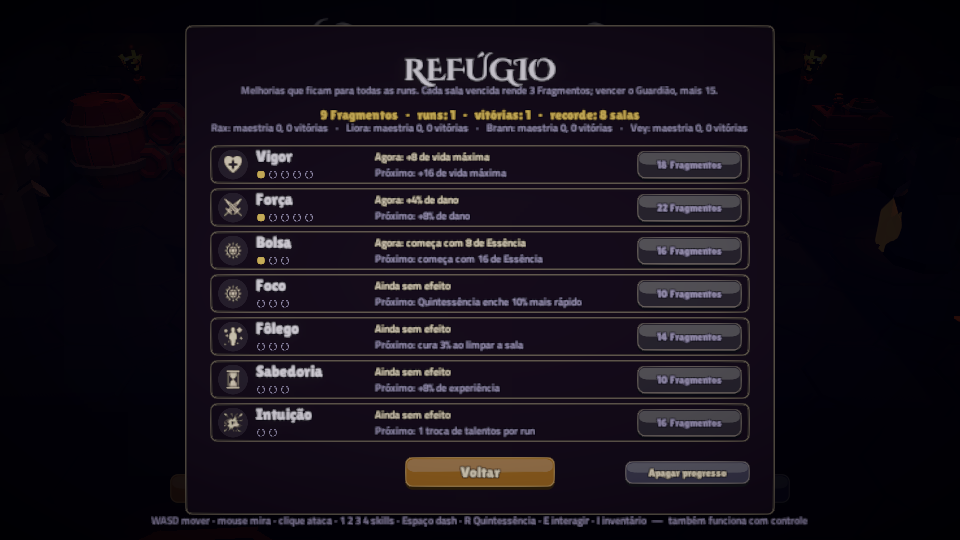
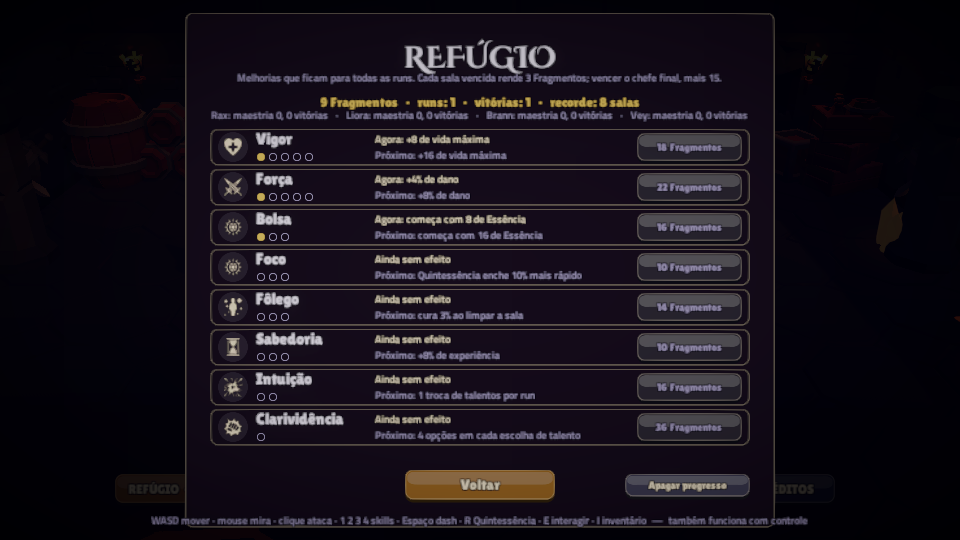
Refúgio: Clarividência (4 opções em cada escolha de talento, tecla 4); nome do talento não cobre o painel seguinte

Changed region(s): [[0.1875, 0.0296, 0.8125, 0.9778], [0.125, 0.8889, 0.1875, 0.9185], [0.8125, 0.8889, 0.8438, 0.9185]]

diff --git a/docs/progresso.html b/docs/progresso.html
@@ -67,6 +67,10 @@
           <li>Um por sala de luta (dois do meio da run em diante), na cor do elemento do trecho. Um golpe estoura o cristal: fere pouco, aplica o efeito do trecho (queima, encharca ou enraíza) e <b>marca o bando em volta</b>; uma skill de outro elemento logo depois detona reações em todos</li>
           <li>Barril e explosões também estouram o cristal: o cenário entra no combo. Respiradouros e espinhos não ferem cristal, barril nem boneco (só criaturas)</li>
         </ul>
+        <h3 style="margin-top:14px">Refúgio: Clarividência</h3>
+        <ul>
+          <li>Oitava melhoria permanente (36 Fragmentos, um nível): <b>cada escolha de talento mostra 4 opções</b> em vez de 3; a tecla 4 escolhe a quarta. Progressão que mexe direto no build</li>
+        </ul>
         <h3 style="margin-top:14px">Build: Sintonia</h3>
         <ul>
           <li>Concentrar talentos de um elemento fortalece aquele elemento: <b>3 pontos</b> = skill +20% de dano; <b>5 pontos</b> = também recarrega 15% mais rápido. Talentos de reação contam para os dois elementos do par</li>

diff --git a/Assets/Game/Run/Meta.cs b/Assets/Game/Run/Meta.cs
@@ -4,18 +4,18 @@ using Quintessence.Core;
 namespace Quintessence.Run
 {
     /// Melhorias permanentes do Refugio, compradas com Fragmentos entre uma run e outra.
-    public enum MetaUpgrade { Vigor, Power, Purse, Focus, Recovery, Wisdom, Insight }
+    public enum MetaUpgrade { Vigor, Power, Purse, Focus, Recovery, Wisdom, Insight, Clarity }
 
     public static class MetaInfo
     {
-        public const int Count = 7;
-        static readonly string[] names = { "Vigor", "Força", "Bolsa", "Foco", "Fôlego", "Sabedoria", "Intuição" };
-        static readonly string[] icons = { "boon_health", "boon_damage", "essence", "boon_quint", "boon_rest", "boon_skill", "boon_reaction" };
-        static readonly int[] maxLevel = { 5, 5, 3, 3, 3, 3, 2 };
-        static readonly int[] baseCost = { 10, 12, 8, 10, 14, 10, 16 };
-        static readonly int[] costStep = { 8, 10, 8, 10, 12, 10, 14 };
-        /// Quanto cada nivel da: vida, fracao de dano, essencia, fracao de ganho, fracao de cura.
-        static readonly float[] perLevel = { 8f, 0.04f, 8f, 0.1f, 0.03f, 0.08f, 1f };
+        public const int Count = 8;
+        static readonly string[] names = { "Vigor", "Força", "Bolsa", "Foco", "Fôlego", "Sabedoria", "Intuição", "Clarividência" };
+        static readonly string[] icons = { "boon_health", "boon_damage", "essence", "boon_quint", "boon_rest", "boon_skill", "boon_reaction", "boon_element" };
+        static readonly int[] maxLevel = { 5, 5, 3, 3, 3, 3, 2, 1 };
+        static readonly int[] baseCost = { 10, 12, 8, 10, 14, 10, 16, 36 };
+        static readonly int[] costStep = { 8, 10, 8, 10, 12, 10, 14, 0 };
+        /// Quanto cada nivel da: vida, fracao de dano, essencia, fracao de ganho, fracao de cura, opcoes de talento.
+        static readonly float[] perLevel = { 8f, 0.04f, 8f, 0.1f, 0.03f, 0.08f, 1f, 1f };
 
         public static string Name(MetaUpgrade u) => names[(int)u];
         public static string Icon(MetaUpgrade u) => icons[(int)u];
@@ -35,6 +35,7 @@ namespace Quintessence.Run
                 MetaUpgrade.Focus => $"Quintessência enche {v * 100:0}% mais rápido",
                 MetaUpgrade.Recovery => $"cura {v * 100:0}% ao limpar a sala",
                 MetaUpgrade.Wisdom => $"+{v * 100:0}% de experiência",
+                MetaUpgrade.Clarity => level > 0 ? "4 opções em cada escolha de talento" : "3 opções de talento",
                 _ => v <= 1f ? "1 troca de talentos por run" : $"{v:0} trocas de talentos por run",
             };
         }
@@ -206,6 +207,8 @@ namespace Quintessence.Run
 
         /// Quantas vezes por run da para trocar as tres opcoes de talento.
         public int Rerolls => (int)(MetaInfo.PerLevel(MetaUpgrade.Insight) * Level(MetaUpgrade.Insight));
+        /// Quantas opcoes cada escolha de talento mostra (Clarividencia: 4).
+        public int TalentChoices => 3 + Level(MetaUpgrade.Clarity);
 
         public int StartEssence => (int)(MetaInfo.PerLevel(MetaUpgrade.Purse) * Level(MetaUpgrade.Purse));
 

diff --git a/Assets/Game/Game/RunDirector.cs b/Assets/Game/Game/RunDirector.cs
@@ -1192,7 +1192,7 @@ namespace Quintessence.Game
         void OpenLevelUp()
         {
             talentRng = TalentRng();
-            talentOffer = TalentCatalog.Offer(Run.Talents, player.Loadout.Awakened, talentRng);
+            talentOffer = TalentCatalog.Offer(Run.Talents, player.Loadout.Awakened, talentRng, MetaStore.Current.TalentChoices);
             if (talentOffer.Count == 0) { while (Run.Progress.ConsumePick()) { } masteryPicks = 0; return; }
             if (GameFlow.AutoPickTalents) { PickTalent(0); return; }
             levelUpOpen = true;
@@ -1207,7 +1207,7 @@ namespace Quintessence.Game
         {
             if (!levelUpOpen || Run.Rerolls <= 0) return;
             Run.Rerolls--;
-            var fresh = TalentCatalog.Offer(Run.Talents, player.Loadout.Awakened, TalentRng());
+            var fresh = TalentCatalog.Offer(Run.Talents, player.Loadout.Awakened, TalentRng(), MetaStore.Current.TalentChoices);
             if (fresh.Count == 0) { Run.Rerolls++; return; }
             talentOffer = fresh;
             Sfx.Play("ui_click");
@@ -1231,6 +1231,7 @@ namespace Quintessence.Game
             if (kb.digit1Key.wasPressedThisFrame || kb.numpad1Key.wasPressedThisFrame) PickTalent(0);
             else if (kb.digit2Key.wasPressedThisFrame || kb.numpad2Key.wasPressedThisFrame) PickTalent(1);
             else if (kb.digit3Key.wasPressedThisFrame || kb.numpad3Key.wasPressedThisFrame) PickTalent(2);
+            else if (kb.digit4Key.wasPressedThisFrame || kb.numpad4Key.wasPressedThisFrame) PickTalent(3);
             else if (kb.tKey.wasPressedThisFrame) RerollTalents();
         }
 
@@ -1258,6 +1259,8 @@ namespace Quintessence.Game
                 // a tecla que escolheu o talento nao pode virar skill no quadro seguinte
                 // a tecla que escolheu nao vira skill: o heroi ignora comandos no quadro em que a pausa sai (GameClock.ResumedFrame)
             }
+            // com outra escolha na fila o painel reabre ja: o nome flutuando passaria por cima do titulo dele
+            if (Run.Progress.PendingPicks > 0) return;
             var c = t.Element == ElementType.None ? new Color(0.9f, 0.76f, 0.42f) : ElementColors.Of(t.Element);
             Feel.DamageNumber.Spawn(player.transform.position + Vector3.up * 3.6f, t.Name.ToUpperInvariant() + "!", c, 1.1f, 1.5f);
         }

diff --git a/Assets/Game/UI/TitleMenu.cs b/Assets/Game/UI/TitleMenu.cs
@@ -285,7 +285,7 @@ namespace Quintessence.UI
             if (meta == null) return;
             var center = new Vector2(0.5f, 0.5f);
             UiKit.Image(UiKit.Stretch("Shade", refuge), null, new Color(0.02f, 0.02f, 0.04f, 0.95f), true);
-            var box = UiKit.Box("Box", refuge, center, Vector2.zero, new Vector2(1180, 980), 1f);
+            var box = UiKit.Box("Box", refuge, center, Vector2.zero, new Vector2(1180, 1030), 1f);
             var title = UiKit.Text(UiKit.Rect("Title", box, new Vector2(0.5f, 1), new Vector2(0, -58), new Vector2(900, 70)), "REFÚGIO", 60, UiKit.Paper);
             title.font = GameFonts.Title;
             UiKit.Text(UiKit.Rect("Sub", box, new Vector2(0.5f, 1), new Vector2(0, -112), new Vector2(1000, 36)),
@@ -304,7 +304,7 @@ namespace Quintessence.UI
             {
                 var u = (MetaUpgrade)i;
                 int level = meta.Level(u), max = MetaInfo.MaxLevel(u);
-                var row = UiKit.Box("Row" + i, box, new Vector2(0.5f, 1), new Vector2(0, -240 - i * 86), new Vector2(1080, 78), 0.5f);
+                var row = UiKit.Box("Row" + i, box, new Vector2(0.5f, 1), new Vector2(0, -232 - i * 80), new Vector2(1080, 74), 0.5f);
                 var disc = UiKit.Rect("Disc", row, new Vector2(0, 0.5f), new Vector2(16, 0), new Vector2(60, 60));
                 UiKit.Image(disc, UiKit.Circle, new Color(0.16f, 0.14f, 0.2f));
                 UiKit.Image(UiKit.Rect("Icon", disc, center, Vector2.zero, new Vector2(40, 40)), UiKit.Icon(MetaInfo.Icon(u)), UiKit.Cream);

diff --git a/Assets/Game/Game/Tests/PlayMode/RunPlayTests.cs b/Assets/Game/Game/Tests/PlayMode/RunPlayTests.cs
@@ -659,6 +659,16 @@ namespace Quintessence.Game.PlayTests
             for (int k = 0; k < 5; k++) yield return null;
             Assert.Greater(hero.Health.Max, before, "Vigor aumenta a vida maxima");
             Assert.AreEqual(2, hero.DashMaxCharges, "Asas da a segunda carga de dash");
+            // Clarividencia (Refugio): a escolha passa a mostrar quatro talentos, e a tecla 4 escolhe o quarto
+            MetaStore.Current.AddShards(100);
+            Assert.IsTrue(MetaStore.Current.TryBuy(MetaUpgrade.Clarity));
+            director.Run.Progress.AddXp(director.Run.Progress.XpToNext);
+            for (int k = 0; k < 10 && !director.LevelUpOpen; k++) yield return null;
+            Assert.AreEqual(4, director.TalentOffer.Count, "quatro opcoes com a Clarividencia");
+            for (int k = 0; k < 4; k++) yield return null;
+            Shot(cam, "docs/img/nivel_quatro.png");
+            director.PickTalent(3);
+            Assert.IsFalse(director.LevelUpOpen);
             GameFlow.AutoPickTalents = true;
             GameFlow.Layers = 8; GameFlow.Shrines = 3;
             Time.captureFramerate = 0;

diff --git a/Assets/Game/Run/Tests/Editor/MetaTests.cs b/Assets/Game/Run/Tests/Editor/MetaTests.cs
@@ -251,5 +251,18 @@ namespace Quintessence.Run.Tests
             p.AddHeroXp(ElementType.Air, 500);
             Assert.Contains(Feat.MasteryFive, p.GrantFeats(new RunRecord { Final = true }));
         }
+
+        [Test] public void Clarity_ShowsAFourthTalentChoice_AndOldSavesStartWithout()
+        {
+            var p = new MetaProgress();
+            Assert.AreEqual(3, p.TalentChoices);
+            p.AddShards(100);
+            Assert.IsTrue(p.TryBuy(MetaUpgrade.Clarity));
+            Assert.AreEqual(4, p.TalentChoices);
+            Assert.IsFalse(p.CanBuy(MetaUpgrade.Clarity), "um nivel so");
+            Assert.AreEqual(1, MetaProgress.Parse(p.Serialize()).Level(MetaUpgrade.Clarity));
+            Assert.AreEqual(0, MetaProgress.Parse("v1;40;3;1;7;2,1,0,3,1,0,1").Level(MetaUpgrade.Clarity), "save com sete melhorias");
+            Assert.IsNotEmpty(MetaInfo.Describe(MetaUpgrade.Clarity, 1));
+        }
     }
 }

diff --git a/README.md b/README.md
@@ -2,7 +2,7 @@
 
 Action roguelite 3D de câmera top-down: você escolhe um dos quatro heróis (Rax, Liora, Brann ou Vey), começa a run com o elemento dele, desperta os outros três e combina as skills em reações até alcançar a Quintessência. Projeto 3D de Jogos Digitais e Interação (Insper).
 
-**O que tem no jogo:** 4 heróis com golpe básico, passiva e maestria (5 níveis) próprios · 4 skills elementais, 6 reações e 4 fusões com o terceiro elemento · afinidade elemental e poças que marcam pelo elemento do trecho · run de 10 salas em mapa ramificado, por três trechos (Salões de Cinza, Cripta Afogada, Jardim de Pedra) até o Coração das Cinzas · 14 tipos de inimigo (entre eles o Escudeiro, que só cede pelas costas, e um elemental por trecho: Brasa Viva, Afogado e Sentinela), Campeão de Elite com 6 traços, o mini-chefe Carrasco e três chefes finais sorteados por run (o Guardião, a Tecelã das Cinzas e a Rainha Afogada) · nível e 28 talentos, 29 bênçãos, Santuário que desperta ou aprofunda skills, Loja, Tesouro, Pacto, Provação (desafio que paga um talento extra) e Cerco (aguentar ondas sem fim até o tempo acabar) · 27 arranjos de sala (5 exclusivos de cada trecho) com perigos (brasa, espinhos, poças, barril de pólvora) · Refúgio com 7 melhorias permanentes, Ascensão em 5 níveis e 10 Feitos · run salva a cada sala (Continuar no título) · Grimório, treino com o herói escolhido, dicas de primeira vez e opções (volume, tela cheia, tremor de tela e dificuldade Tranquila).
+**O que tem no jogo:** 4 heróis com golpe básico, passiva e maestria (5 níveis) próprios · 4 skills elementais, 6 reações e 4 fusões com o terceiro elemento · afinidade elemental e poças que marcam pelo elemento do trecho · run de 10 salas em mapa ramificado, por três trechos (Salões de Cinza, Cripta Afogada, Jardim de Pedra) até o Coração das Cinzas · 14 tipos de inimigo (entre eles o Escudeiro, que só cede pelas costas, e um elemental por trecho: Brasa Viva, Afogado e Sentinela), Campeão de Elite com 6 traços, o mini-chefe Carrasco e três chefes finais sorteados por run (o Guardião, a Tecelã das Cinzas e a Rainha Afogada) · nível e 28 talentos, 29 bênçãos, Santuário que desperta ou aprofunda skills, Loja, Tesouro, Pacto, Provação (desafio que paga um talento extra) e Cerco (aguentar ondas sem fim até o tempo acabar) · 27 arranjos de sala (5 exclusivos de cada trecho) com perigos (brasa, espinhos, poças, barril de pólvora) · Refúgio com 8 melhorias permanentes, Ascensão em 5 níveis e 10 Feitos · run salva a cada sala (Continuar no título) · Grimório, treino com o herói escolhido, dicas de primeira vez e opções (volume, tela cheia, tremor de tela e dificuldade Tranquila).
 
 **Equipe:** Leonardo de Souza, Nicolas Volf, Enzo Canavero, Miguel Damasio
 **Engine:** Unity `6000.6.4f1` (URP). Use exatamente essa versão.

diff --git a/docs/GDD.md b/docs/GDD.md
@@ -148,7 +148,7 @@ Os tipos entram aos poucos: Ceifador na segunda sala, Cinzentos na terceira, Arr
 
 - **Na run:** Essência (moeda da loja) e bênçãos (29 no catálogo; cada Mestre só oferece a do próprio elemento a quem já o despertou).
 - **Nível e talentos:** inimigo derrotado dá experiência. Cada nível oferece três talentos para escolher um, com a sala limpa. São 28: dez de corpo (combo, finalizador, vida, recarga por abate, Essência, Flanqueador para golpes pelas costas, Pés Firmes contra a lentidão do encharcado Despertar Intenso, que só aparece com três elementos, Contágio, em que a marca de quem cai pula para o vizinho, e Alquimia, que fortalece as Fusões), três por skill, que só aparecem com o elemento desperto, e seis de reação, que fortalecem uma reação quando os dois elementos dela estão despertos. Exemplos: Labareda deixa o chão em chamas; Maré congela; Pilar bloqueia mais um golpe e devolve dano; Vendaval dá pressa; +1 carga de dash. Bênçãos mudam números; talentos mudam o que as skills fazem.
-- **Entre runs:** Fragmentos, 3 por sala vencida e 15 por vencer o Guardião. No **Refúgio** compram sete melhorias permanentes: Vigor (vida), Força (dano), Bolsa (Essência inicial), Foco (Quintessência), Fôlego (cura por sala), Sabedoria (experiência) e Intuição (trocar as opções de talento). O progresso é salvo no navegador.
+- **Entre runs:** Fragmentos, 3 por sala vencida e 15 por vencer o Guardião. No **Refúgio** compram oito melhorias permanentes: Vigor (vida), Força (dano), Bolsa (Essência inicial), Foco (Quintessência), Fôlego (cura por sala), Sabedoria (experiência), Intuição (trocar as opções de talento) e Clarividência (4 opções em cada escolha de talento). O progresso é salvo no navegador.
 - **Continuar:** a run é gravada ao entrar em cada sala. Fechar o jogo e voltar retoma do começo daquela sala. Começar uma run nova ou terminá-la apaga o save.
 - **Ascensão:** cada vitória libera um nível de desafio (até cinco). Cada nível dá +12% de vida e +10% de dano aos inimigos e +25% de Fragmentos.
 - **Sintonia:** concentrar talentos de um elemento (os da skill dele e os de reação que o envolvem) fortalece aquele elemento: com 3 pontos a skill causa +20%; com 5, também recarrega 15% mais rápido. O cartão do talento mostra quantos pontos ele soma; é o motivo para especializar o build.
